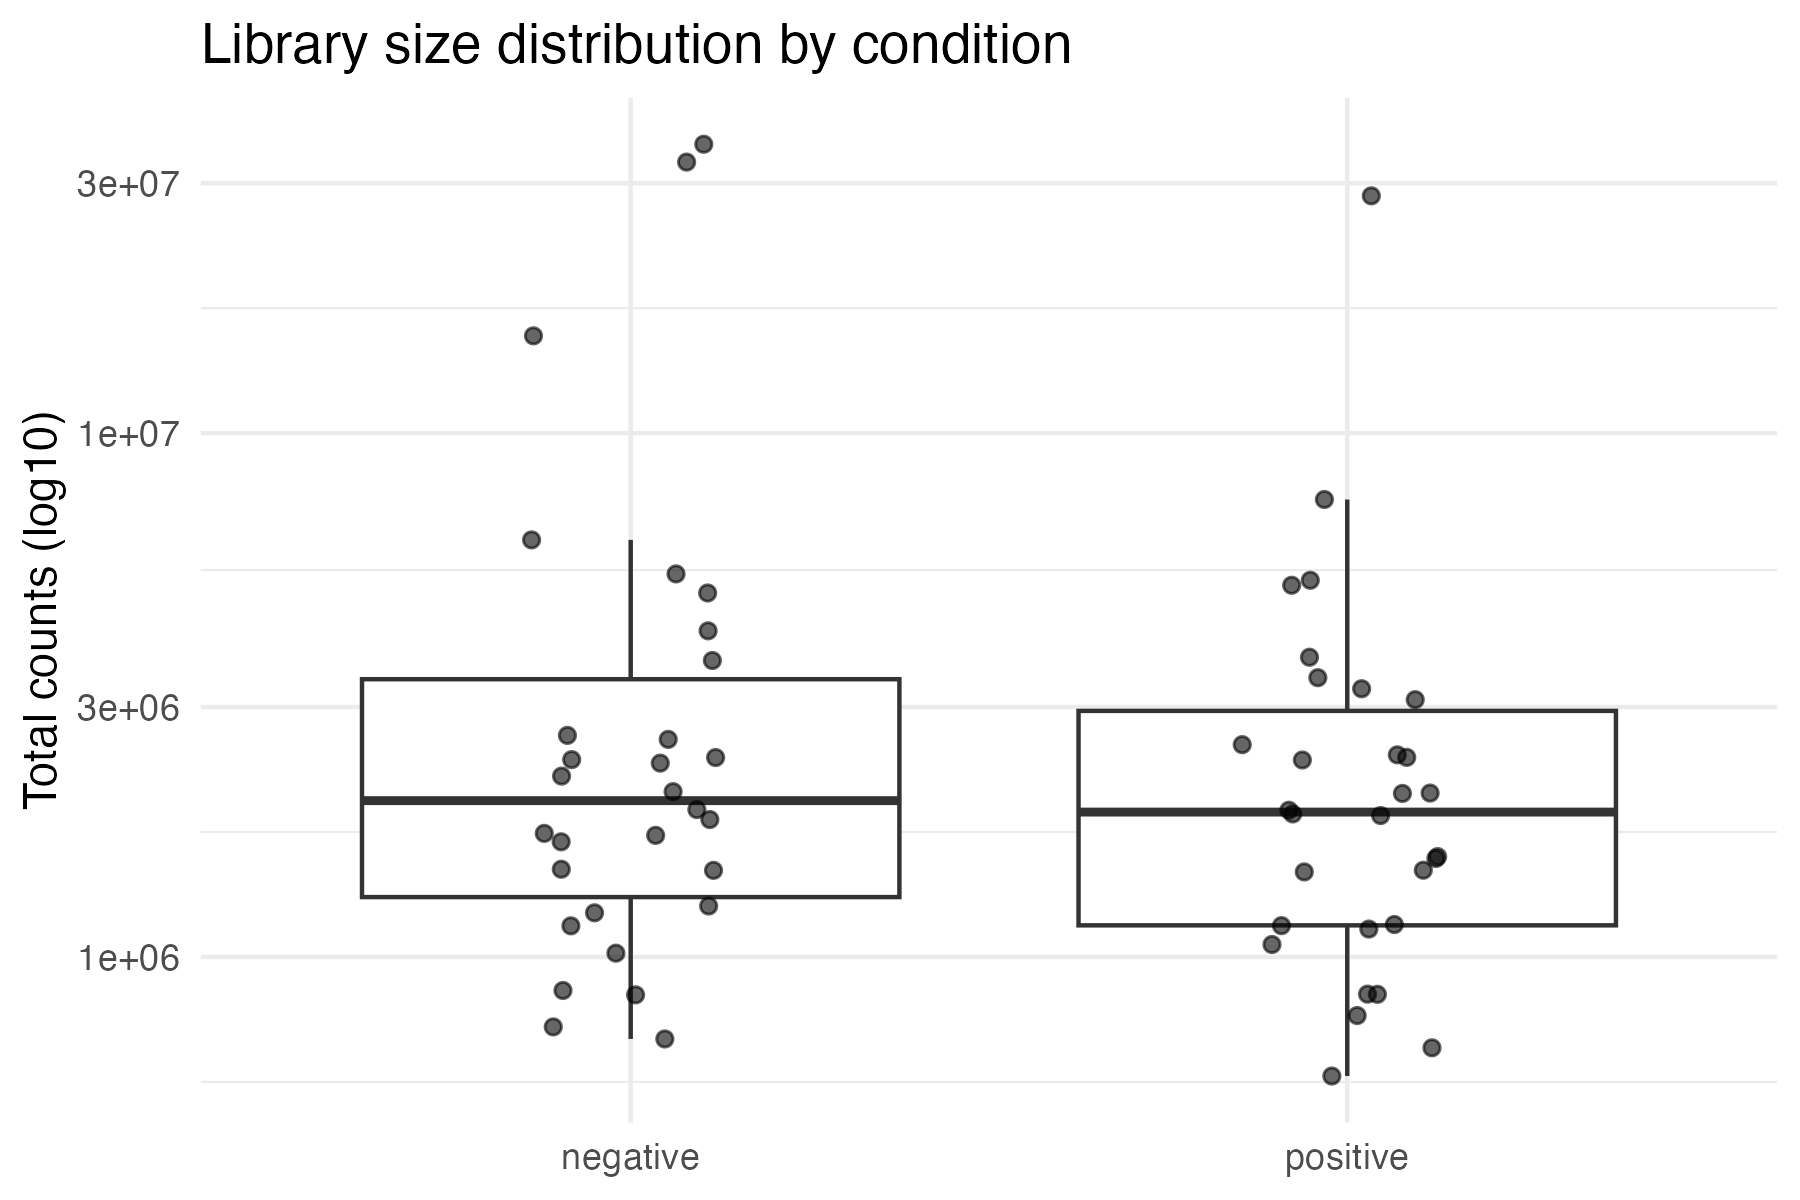
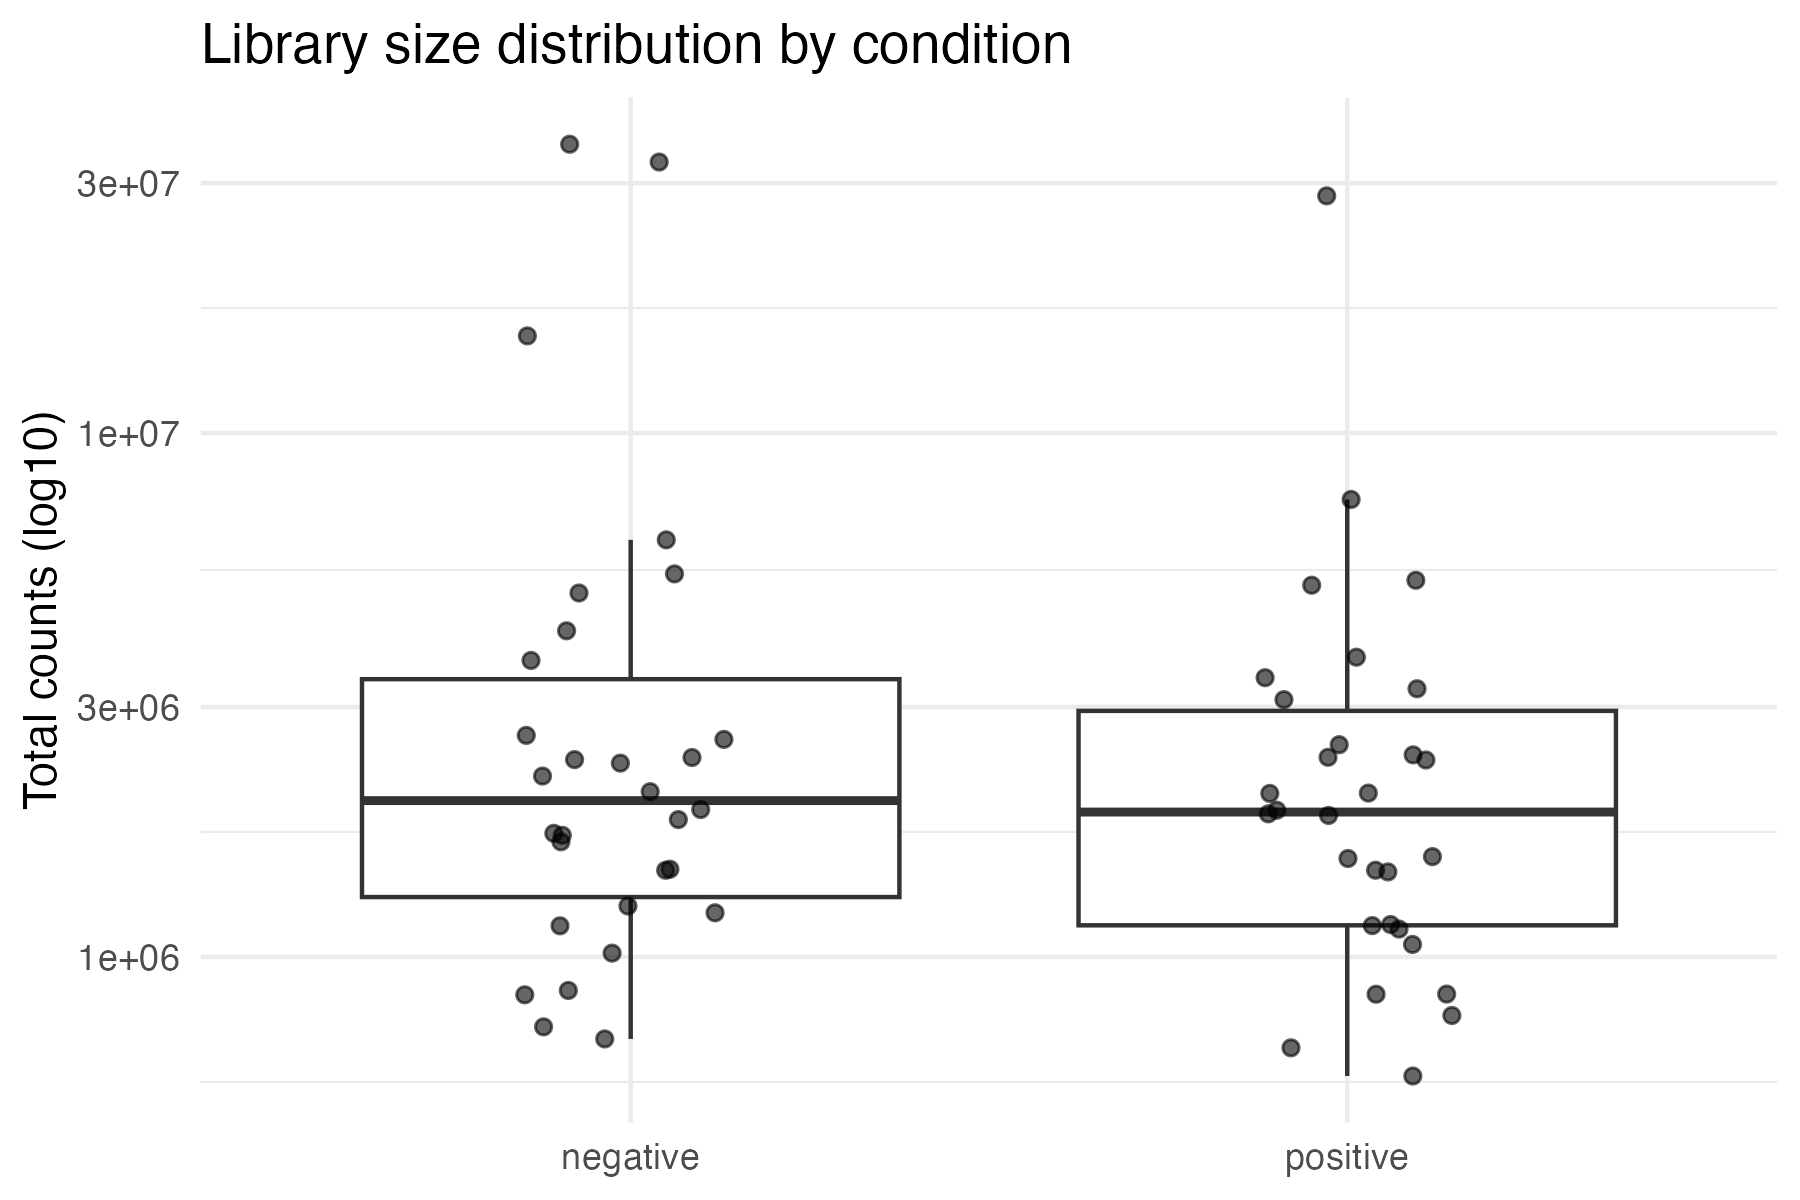
Add direct GEO link and fix some data numbers

diff --git a/README.md b/README.md
@@ -1,45 +1,52 @@
 # Bulk RNA-seq Differential Expression Analysis (R)
 
-A reproducible, modular bulk RNA-seq analysis pipeline in R, demonstrating
-end-to-end handling of public transcriptomic data: from acquisition and quality
-control to exploratory analysis and differential expression modelling.
+A reproducible, modular bulk RNA-seq analysis pipeline in R demonstrating
+data acquisition, quality control (QC), exploratory analysis, and differential
+expression modelling.
 
-The workflow prioritises **biological interpretability**, **statistical rigour**,
-and **reproducibility**, and is designed as a portfolio-grade example of standard
-bulk RNA-seq analysis practice.
+Designed as a portfolio-grade workflow with emphasis on biological
+interpretability, statistical correctness, and reproducibility.
 
 ---
 
 ## Dataset
 
-- **Source:** NCBI GEO (GSE152075)  
-- **Organism:** *Homo sapiens*  
-- **Data type:** Bulk RNA-seq (raw counts)  
-- **Biological context:** SARS-CoV-2 infection status  
+- **Source:** NCBI GEO — [GSE152075](https://www.ncbi.nlm.nih.gov/geo/query/acc.cgi?acc=GSE152075)
+- **Organism:** *Homo sapiens*
+- **Data type:** Bulk RNA-seq (raw counts)
+- **Biological context:** SARS-CoV-2 infection status
 
-**Original dataset:**  
+**Original dataset:**
 - 484 samples (430 positive, 54 negative)
 
-**Subset used for analysis:**  
-- 30 SARS-CoV-2 positive  
-- 30 SARS-CoV-2 negative  
+**Subset used in this analysis:**
+- 30 SARS-CoV-2 positive samples  
+- 30 SARS-CoV-2 negative samples  
 
-A balanced subset was selected to improve interpretability of exploratory analyses
-(PCA), ensure comparability between conditions, and reduce unnecessary
-heterogeneity unrelated to the biological contrast of interest.
+A balanced subset was used to improve interpretability of PCA and
+differential expression results while reducing heterogeneity unrelated
+to the biological contrast of interest.
 
 ---
 
 ## Analysis workflow
 
-scripts/
-├── 00_get_data.R # GEO download and balanced subset construction
-├── 01_qc.R # Library QC, gene filtering, variance stabilisation
-├── 02_pca.R # PCA of variance-stabilised expression data
-├── 03_deseq2.R # Differential expression analysis (DESeq2)
-├── 04_pathways.R # Pathway enrichment (KEGG / GO)
+`scripts/`
 
+- **00_get_data.R**  
+  Download GEO data and construct a balanced case–control subset
 
+- **01_qc.R**  
+  Library size QC, CPM-based gene filtering, variance stabilisation
+
+- **02_pca.R**  
+  PCA of variance-stabilised expression data
+
+- **03_deseq2.R**  
+  Differential expression analysis using DESeq2
+
+- **04_pathways.R**  
+  Pathway enrichment analysis (KEGG / GO)
 
 ---
 
@@ -47,30 +54,11 @@ scripts/
 
 - Failed libraries removed
 - Library sizes inspected across conditions
-- CPM-based gene filtering applied
-- Genes retained if ≥ 1 CPM in ≥ 10 samples
-- Variance stabilising transformation (VST) used for exploratory analyses
+- Genes retained based on CPM filtering
+- Variance stabilising transformation used for exploratory analysis only
 
-**After QC:**  
-- 14,744 genes  
-- 60 samples (30 positive / 30 negative)
-
----
-
-## Biological interpretation (summary)
-
-Principal component analysis of variance-stabilised expression data shows partial
-separation between SARS-CoV-2–positive and negative samples, indicating that
-infection status contributes meaningfully to global transcriptional variance
-beyond technical noise.
-
-Differential expression analysis using DESeq2 identified approximately 136 genes
-with significant expression changes (FDR < 0.05) between conditions, consistent
-with a host transcriptional response to viral infection.
-
-Pathway enrichment analysis (KEGG / GO) contextualises these gene-level changes at
-the systems level, highlighting immune- and antiviral-response pathways
-characteristic of SARS-CoV-2 infection.
+The final dataset used for differential expression consists of
+high-quality samples and genes suitable for count-based modelling.
 
 ---
 
@@ -79,55 +67,62 @@ characteristic of SARS-CoV-2 infection.
 ### PCA of samples
 <img src="results/figures/pca_plot.png" width="600">
 
+Principal component analysis shows partial separation between
+SARS-CoV-2–positive and negative samples, indicating a condition-associated
+transcriptional signal beyond technical variation.
+
+---
+
 ### Library size QC
 <img src="results/figures/qc_library_size.png" width="550">
+
+Library sizes are broadly comparable across conditions, supporting the
+use of standard normalisation and downstream modelling assumptions.
+
+---
 
 ### Differential expression (volcano)
 <img src="results/figures/volcano_plot.png" width="650">
 
+A small number of genes show large effect sizes with strong statistical
+support, consistent with a focused host transcriptional response.
+
 ---
 
-## Key results (gene-level)
+## Gene-level interpretation
 
-The volcano plot highlights a small subset of genes with large effect sizes and
-strong statistical support. The most strongly up-regulated genes in
-SARS-CoV-2–positive samples are consistent with a canonical
-interferon-mediated antiviral response.
+The most strongly up-regulated genes in SARS-CoV-2–positive samples are
+consistent with a canonical interferon-mediated antiviral response.
 
-Several top-ranked signals correspond to well-characterised
-interferon-stimulated genes (ISGs), including members of the **ISG15**, **OAS**,
-and **MX** gene families, which are known to restrict viral replication and amplify
-innate immune signalling.
+Several top-ranked signals correspond to interferon-stimulated genes
+(ISGs), including members of the **ISG**, **OAS**, and **MX** gene families,
+which are known to restrict viral replication and amplify innate immune
+signalling.
 
-Overall, the dominant transcriptional signal reflects biologically coherent host
-immune activation rather than batch- or quality-driven artefacts.
+This pattern indicates that the dominant signal in the data reflects
+host immune activation rather than batch or technical artefacts.
 
 ---
 
 ## Requirements
 
-- R ≥ 4.2  
-- GEOquery  
-- DESeq2  
-- edgeR  
-- tidyverse  
-- ggplot2  
-- pheatmap  
+- R ≥ 4.2
+- GEOquery
+- DESeq2
+- edgeR
+- tidyverse
+- ggplot2
+- pheatmap
 
 ---
 
 ## Reproducibility
 
+Run the analysis end-to-end from the project root:
+
+```r
 source("scripts/00_get_data.R")
 source("scripts/01_qc.R")
 source("scripts/02_pca.R")
 source("scripts/03_deseq2.R")
 source("scripts/04_pathways.R")
-
-
-### PROJECT INTENT:
-
-This project demonstrates correct handling of public RNA-seq data, sound
-experimental design, robust quality control, and familiarity with standard
-bulk RNA-seq analytical workflows commonly used in academic and applied
-bioinformatics.
